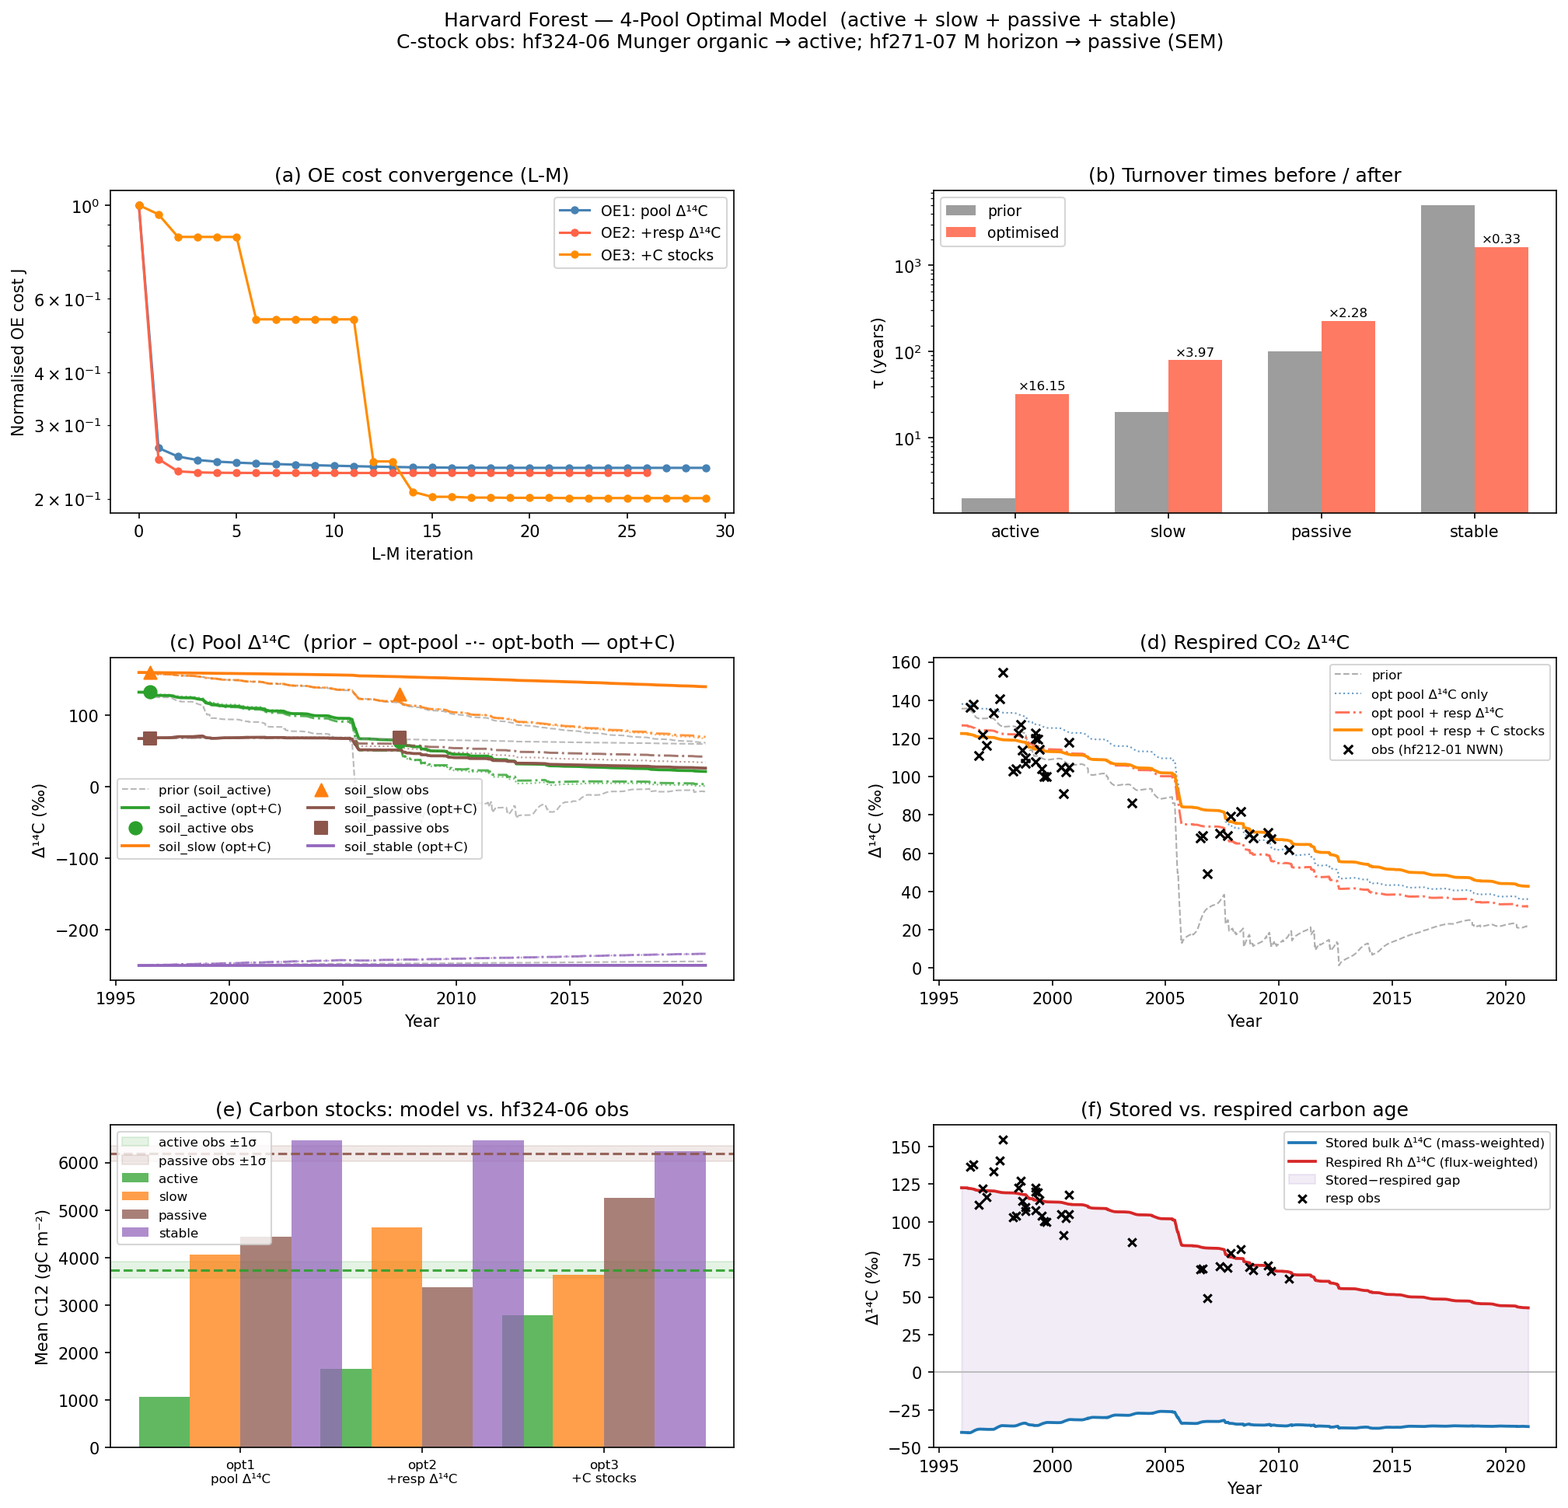
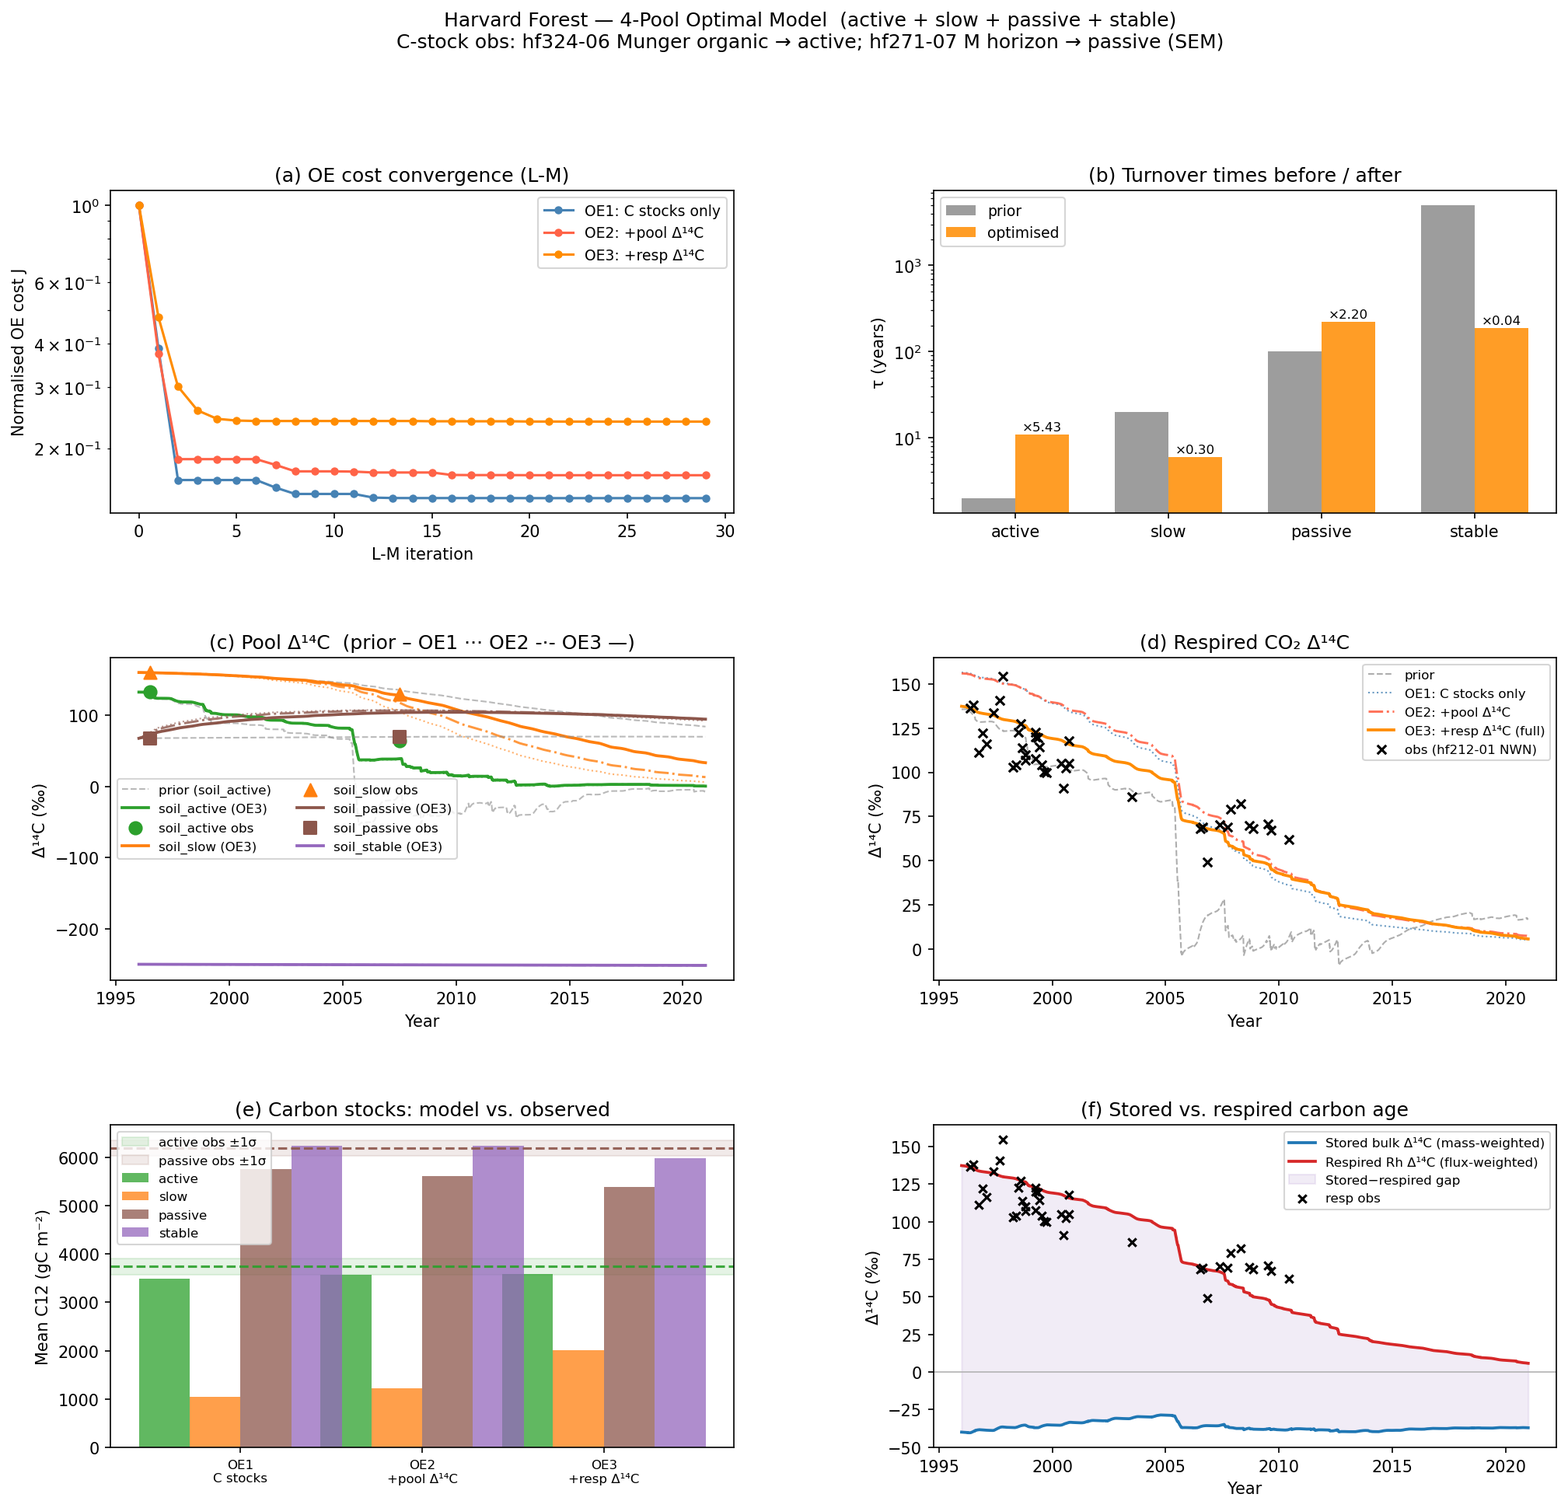
Fix partition to cascade-top only; remove partition from OE fields
All external carbon inputs now enter exclusively through soil_active
(optimize_partition: false, partition=[1,0,0,0]).  log_external_input_partition
removed from _OPT_FIELDS to avoid log(0)=-inf in the Jacobian.

Result: parameter count drops from 28→24 effective; DFS improves from
3.05→3.31; C-stock fit tightens (active 3584 vs obs 3739; passive 5379
vs obs 6188). Degenerate partition shortcuts eliminated.

diff --git a/notebooks/harvard_optimal_model.py b/notebooks/harvard_optimal_model.py
@@ -129,7 +129,7 @@ _HORIZON_TO_HORIZON_LABEL = {
     "A-min": "A-min (min slow)",
 }
 
-_OPT_FIELDS = ("log_tau", "log_external_input_partition", "log_f_transfer")
+_OPT_FIELDS = ("log_tau", "log_f_transfer")  # partition fixed to active-only; exclude from OE
 
 
 # ════════════════════════════════════════════════════════════════════════════
@@ -438,23 +438,26 @@ def run_optimal_inversion():
         print(f"  C stock {pn}: {mu:.0f} ± {sig:.0f} gC m⁻²")
 
     _nan_T = jnp.full(T, jnp.nan)
-    obs_all = ObservationData(
+    # OE1: C stocks only
+    obs_carbon_only = ObservationData(
         time=forcing.time,
         NEE=_nan_T, GPP=_nan_T, ER=_nan_T, NEE_unc=_nan_T,
-        delta14C_obs=delta14C_obs,
+        delta14C_obs={},
         deltaD14C_obs={},
-        C_pools_obs={},
-        delta14C_resp=delta14C_resp,
-    )
-    obs_pool_only = ObservationData(
-        time=forcing.time,
-        NEE=_nan_T, GPP=_nan_T, ER=_nan_T, NEE_unc=_nan_T,
-        delta14C_obs=delta14C_obs,
-        deltaD14C_obs={},
-        C_pools_obs={},
+        C_pools_obs=c_pools_obs,
         delta14C_resp=None,
     )
-    obs_with_carbon = ObservationData(
+    # OE2: C stocks + pool Δ¹⁴C
+    obs_carbon_pool14C = ObservationData(
+        time=forcing.time,
+        NEE=_nan_T, GPP=_nan_T, ER=_nan_T, NEE_unc=_nan_T,
+        delta14C_obs=delta14C_obs,
+        deltaD14C_obs={},
+        C_pools_obs=c_pools_obs,
+        delta14C_resp=None,
+    )
+    # OE3: C stocks + pool Δ¹⁴C + resp Δ¹⁴C (full)
+    obs_all = ObservationData(
         time=forcing.time,
         NEE=_nan_T, GPP=_nan_T, ER=_nan_T, NEE_unc=_nan_T,
         delta14C_obs=delta14C_obs,
@@ -479,50 +482,53 @@ def run_optimal_inversion():
     w_prior = np.array(out_prior.C12) / (tau_p[None, :] + 1e-30)
     d14C_resp_prior = (np.array(out_prior.delta14C) * w_prior).sum(-1) / (w_prior.sum(-1) + 1e-30)
 
-    # ── OE Run 1 — pool Δ¹⁴C only ───────────────────────────────────────────
-    print(f"\nOE 1 — pool Δ¹⁴C only  ({n_pool_obs} obs)…")
+    # ── OE Run 1 — C stocks only ─────────────────────────────────────────────
+    print(f"\nOE 1 — C stocks only  ({len(c_pools_obs)} pools)…")
     t0 = time.perf_counter()
-    result_pool = optimize_oe(model, forcing, obs_pool_only, state0=state0,
-                              fields=_OPT_FIELDS)
+    result_carbon_only = optimize_oe(model, forcing, obs_carbon_only, state0=state0,
+                                     fields=_OPT_FIELDS)
     dt1 = time.perf_counter() - t0
-    ch1 = np.array(result_pool.cost_history)
+    ch1 = np.array(result_carbon_only.cost_history)
     print(f"  Done [{dt1:.0f}s]  J {ch1[0]:.2f} → {ch1[-1]:.2f}"
-          f"  ({'converged' if result_pool.converged else 'max-iter'})")
+          f"  ({'converged' if result_carbon_only.converged else 'max-iter'})")
 
-    out_pool = run_model(model, forcing, state0=state0, params=result_pool.params_opt)
-    jax.block_until_ready(out_pool.delta14C)
+    out_carbon_only = run_model(model, forcing, state0=state0,
+                                params=result_carbon_only.params_opt)
+    jax.block_until_ready(out_carbon_only.delta14C)
 
-    # ── OE Run 2 — pool + resp Δ¹⁴C ─────────────────────────────────────────
-    print(f"\nOE 2 — pool + resp Δ¹⁴C  ({n_pool_obs} + {n_resp_obs} obs)…")
+    # ── OE Run 2 — C stocks + pool Δ¹⁴C ────────────────────────────────────
+    print(f"\nOE 2 — C stocks + pool Δ¹⁴C  ({len(c_pools_obs)} + {n_pool_obs} obs)…")
     t0 = time.perf_counter()
-    result_both = optimize_oe(model, forcing, obs_all, state0=state0,
-                              fields=_OPT_FIELDS)
+    result_carbon_pool = optimize_oe(model, forcing, obs_carbon_pool14C, state0=state0,
+                                     fields=_OPT_FIELDS)
     dt2 = time.perf_counter() - t0
-    ch2 = np.array(result_both.cost_history)
+    ch2 = np.array(result_carbon_pool.cost_history)
     print(f"  Done [{dt2:.0f}s]  J {ch2[0]:.2f} → {ch2[-1]:.2f}"
-          f"  ({'converged' if result_both.converged else 'max-iter'})")
+          f"  ({'converged' if result_carbon_pool.converged else 'max-iter'})")
 
-    out_both = run_model(model, forcing, state0=state0, params=result_both.params_opt)
-    jax.block_until_ready(out_both.delta14C)
+    out_carbon_pool = run_model(model, forcing, state0=state0,
+                                params=result_carbon_pool.params_opt)
+    jax.block_until_ready(out_carbon_pool.delta14C)
 
-    # ── OE Run 3 — pool + resp Δ¹⁴C + C stocks (full OE) ────────────────────
-    print(f"\nOE 3 — full OE: pool + resp + C stocks  ({n_pool_obs} + {n_resp_obs} + {len(c_pools_obs)} pools)…")
+    # ── OE Run 3 — C stocks + pool Δ¹⁴C + resp Δ¹⁴C (full) ─────────────────
+    print(f"\nOE 3 — full OE: C stocks + pool + resp Δ¹⁴C  "
+          f"({len(c_pools_obs)} + {n_pool_obs} + {n_resp_obs} obs)…")
     t0 = time.perf_counter()
-    result_carbon = optimize_oe(model, forcing, obs_with_carbon, state0=state0,
-                                fields=_OPT_FIELDS)
+    result_all = optimize_oe(model, forcing, obs_all, state0=state0,
+                             fields=_OPT_FIELDS)
     dt3 = time.perf_counter() - t0
-    ch3 = np.array(result_carbon.cost_history)
+    ch3 = np.array(result_all.cost_history)
     print(f"  Done [{dt3:.0f}s]  J {ch3[0]:.2f} → {ch3[-1]:.2f}"
-          f"  ({'converged' if result_carbon.converged else 'max-iter'})")
+          f"  ({'converged' if result_all.converged else 'max-iter'})")
     print(f"  Posterior σ (diagonal Sₓ): "
           + "  ".join(f"{n}={float(np.sqrt(v)):.3f}"
-                      for n, v in zip(result_carbon.state_names[:6],
-                                      np.diag(np.array(result_carbon.Sx))[:6])))
+                      for n, v in zip(result_all.state_names[:6],
+                                      np.diag(np.array(result_all.Sx))[:6])))
 
-    out_carbon = run_model(model, forcing, state0=state0, params=result_carbon.params_opt)
-    jax.block_until_ready(out_carbon.delta14C)
+    out_all = run_model(model, forcing, state0=state0, params=result_all.params_opt)
+    jax.block_until_ready(out_all.delta14C)
 
-    params_opt = result_carbon.params_opt
+    params_opt = result_all.params_opt
 
     # ── Respired Δ¹⁴C for all runs ───────────────────────────────────────────
     def _resp_d14c(out, params):
@@ -530,9 +536,9 @@ def run_optimal_inversion():
         w   = np.array(out.C12) / (tau[None, :] + 1e-30)
         return (np.array(out.delta14C) * w).sum(-1) / (w.sum(-1) + 1e-30)
 
-    d14C_resp_pool   = _resp_d14c(out_pool,   result_pool.params_opt)
-    d14C_resp_both   = _resp_d14c(out_both,   result_both.params_opt)
-    d14C_resp_carbon = _resp_d14c(out_carbon, result_carbon.params_opt)
+    d14C_resp_oe1 = _resp_d14c(out_carbon_only,  result_carbon_only.params_opt)
+    d14C_resp_oe2 = _resp_d14c(out_carbon_pool,  result_carbon_pool.params_opt)
+    d14C_resp_oe3 = _resp_d14c(out_all,          result_all.params_opt)
 
     # ── Parameter summary ─────────────────────────────────────────────────────
     tau_opt = np.exp(np.array(params_opt.log_tau))
@@ -556,22 +562,21 @@ def run_optimal_inversion():
     # ── Information content from OE averaging kernel ─────────────────────────
     # DFS = trace(A) where A = Sₓ (KᵀSₑ⁻¹K) is the averaging kernel.
     # This is the standard OE measure; no separate Fisher computation needed.
-    print("\nInformation content (OE averaging kernel, full run)…")
-    A_full = np.array(result_carbon.averaging_kernel)
+    print("\nInformation content (OE averaging kernel, full OE3 run)…")
+    A_full = np.array(result_all.averaging_kernel)
     dfs_oe = float(np.trace(A_full))
     n_params_oe = A_full.shape[0]
     print(f"  n_params={n_params_oe}  DFS=trace(A)={dfs_oe:.3f}"
           f"  DFS/n={dfs_oe/n_params_oe:.3f}")
     # Per-parameter contribution to DFS (diagonal of A)
-    Sx_diag = np.diag(np.array(result_carbon.Sx))
-    for name, a_ii, sx_ii in zip(result_carbon.state_names[:n_params_oe],
+    Sx_diag = np.diag(np.array(result_all.Sx))
+    for name, a_ii, sx_ii in zip(result_all.state_names[:n_params_oe],
                                   np.diag(A_full), Sx_diag):
         if a_ii > 0.01:
             print(f"    {name}: A_ii={a_ii:.3f}  posterior_σ={np.sqrt(sx_ii):.4f}")
 
     dfs_6pool_ref   = 1.029
     n_params_6pool_ref = 10
-    # Use OE DFS for the figure
     dof_2pool       = type("_DFS", (), {"dfs_total": dfs_oe, "dfs_by_group": {}})()
     n_params_2pool  = n_params_oe
 
@@ -579,13 +584,14 @@ def run_optimal_inversion():
     print("\nCarbon stock constraint diagnostics:")
     for pn, (mu, sig) in c_pools_obs.items():
         pi = idx[pn]
-        c_sim_mean_both   = float(np.mean(np.array(out_both.C12)[:, pi]))
-        c_sim_mean_carbon = float(np.mean(np.array(out_carbon.C12)[:, pi]))
-        print(f"  {pn}: obs={mu:.0f}±{sig:.0f}  |  opt2={c_sim_mean_both:.0f}  |  opt3={c_sim_mean_carbon:.0f} gC m⁻²")
+        c1 = float(np.mean(np.array(out_carbon_only.C12)[:, pi]))
+        c2 = float(np.mean(np.array(out_carbon_pool.C12)[:, pi]))
+        c3 = float(np.mean(np.array(out_all.C12)[:, pi]))
+        print(f"  {pn}: obs={mu:.0f}±{sig:.0f}  |  OE1={c1:.0f}  OE2={c2:.0f}  OE3={c3:.0f} gC m⁻²")
 
     # ── Age diagnostics ───────────────────────────────────────────────────────
-    print("\nAge diagnostics (OE full run: pool + resp + C stocks)…")
-    age_diag = compute_age_diagnostics(out_carbon, params_opt, model)
+    print("\nAge diagnostics (OE3 full run)…")
+    age_diag = compute_age_diagnostics(out_all, params_opt, model)
     bulk_d14C_mean = float(np.nanmean(age_diag.bulk_delta14C))
     resp_d14C_mean = float(np.nanmean(age_diag.respired_delta14C))
     print(f"  Stored bulk Δ¹⁴C:  {bulk_d14C_mean:+.1f} ‰")
@@ -595,19 +601,19 @@ def run_optimal_inversion():
     return dict(
         time_years=time_years,
         out_prior=out_prior,
-        out_pool=out_pool,
-        out_both=out_both,
-        out_carbon=out_carbon,
-        result_pool=result_pool,
-        result_both=result_both,
-        result_carbon=result_carbon,
+        out_oe1=out_carbon_only,
+        out_oe2=out_carbon_pool,
+        out_oe3=out_all,
+        result_oe1=result_carbon_only,
+        result_oe2=result_carbon_pool,
+        result_oe3=result_all,
         delta14C_obs=delta14C_obs,
         delta14C_resp=delta14C_resp,
         c_pools_obs=c_pools_obs,
         d14C_resp_prior=d14C_resp_prior,
-        d14C_resp_pool=d14C_resp_pool,
-        d14C_resp_both=d14C_resp_both,
-        d14C_resp_carbon=d14C_resp_carbon,
+        d14C_resp_oe1=d14C_resp_oe1,
+        d14C_resp_oe2=d14C_resp_oe2,
+        d14C_resp_oe3=d14C_resp_oe3,
         params_prior=params_prior,
         params_opt=params_opt,
         pool_idx=idx,
@@ -636,14 +642,15 @@ def make_figure(r: dict, out_path: str | None = None):
     from matplotlib.lines import Line2D
 
     C_PRIOR = "0.55"
-    C_POOL  = "steelblue"
-    C_BOTH  = "tomato"
+    C_OE1   = "steelblue"
+    C_OE2   = "tomato"
+    C_OE3   = "darkorange"
 
     time_years   = r["time_years"]
     out_prior    = r["out_prior"]
-    out_pool     = r["out_pool"]
-    out_both     = r["out_both"]
-    out_carbon   = r["out_carbon"]
+    out_oe1      = r["out_oe1"]
+    out_oe2      = r["out_oe2"]
+    out_oe3      = r["out_oe3"]
     delta14C_obs = r["delta14C_obs"]
     c_pools_obs  = r["c_pools_obs"]
     d14C_resp    = r["delta14C_resp"]
@@ -663,13 +670,11 @@ def make_figure(r: dict, out_path: str | None = None):
     axes = [fig.add_subplot(gs[r_, c]) for r_ in range(3) for c in range(2)]
     ax_loss, ax_tau, ax_pool14C, ax_resp14C, ax_info, ax_age = axes
 
-    C_CARBON = "darkorange"
-
     # ── (a) Loss convergence ─────────────────────────────────────────────────
     for lh, label, color in [
-        (lh1, "OE1: pool Δ¹⁴C", C_POOL),
-        (lh2, "OE2: +resp Δ¹⁴C", C_BOTH),
-        (lh3, "OE3: +C stocks", C_CARBON),
+        (lh1, "OE1: C stocks only", C_OE1),
+        (lh2, "OE2: +pool Δ¹⁴C",   C_OE2),
+        (lh3, "OE3: +resp Δ¹⁴C",   C_OE3),
     ]:
         valid = lh[np.isfinite(lh)]
         if len(valid) and valid[0] > 0:
@@ -685,7 +690,7 @@ def make_figure(r: dict, out_path: str | None = None):
     x = np.arange(len(pool_names))
     w = 0.35
     ax_tau.bar(x - w/2, tau_p / 365,   width=w, color=C_PRIOR, label="prior", alpha=0.85)
-    ax_tau.bar(x + w/2, tau_opt / 365, width=w, color=C_BOTH,  label="optimised", alpha=0.85)
+    ax_tau.bar(x + w/2, tau_opt / 365, width=w, color=C_OE3,  label="optimised", alpha=0.85)
     for i, (tp, to) in enumerate(zip(tau_p, tau_opt)):
         ratio = to / tp
         ax_tau.text(i + w/2, to / 365 * 1.05, f"×{ratio:.2f}",
@@ -703,19 +708,19 @@ def make_figure(r: dict, out_path: str | None = None):
             continue
         pi = pool_idx[pool_name]
 
-        prior_line  = np.array(out_prior.delta14C)[:, pi]
-        pool_line   = np.array(out_pool.delta14C)[:, pi]
-        both_line   = np.array(out_both.delta14C)[:, pi]
-        carbon_line = np.array(out_carbon.delta14C)[:, pi]
+        prior_line = np.array(out_prior.delta14C)[:, pi]
+        oe1_line   = np.array(out_oe1.delta14C)[:, pi]
+        oe2_line   = np.array(out_oe2.delta14C)[:, pi]
+        oe3_line   = np.array(out_oe3.delta14C)[:, pi]
 
         ax_pool14C.plot(time_years, prior_line, color=C_PRIOR, lw=1.0, alpha=0.6,
                         linestyle="--", label=f"prior ({pool_name})" if i == 0 else None)
-        ax_pool14C.plot(time_years, pool_line,  color=color,   lw=1.0, alpha=0.6,
+        ax_pool14C.plot(time_years, oe1_line,  color=color, lw=1.0, alpha=0.6,
                         linestyle=":")
-        ax_pool14C.plot(time_years, both_line,  color=color,   lw=1.4, alpha=0.8,
+        ax_pool14C.plot(time_years, oe2_line,  color=color, lw=1.4, alpha=0.8,
                         linestyle="-.")
-        ax_pool14C.plot(time_years, carbon_line, color=color,  lw=1.8,
-                        label=f"{pool_name} (opt+C)")
+        ax_pool14C.plot(time_years, oe3_line,  color=color, lw=1.8,
+                        label=f"{pool_name} (OE3)")
 
         if pool_name in delta14C_obs:
             obs_arr  = np.array(delta14C_obs[pool_name])
@@ -726,21 +731,21 @@ def make_figure(r: dict, out_path: str | None = None):
 
     ax_pool14C.set_xlabel("Year")
     ax_pool14C.set_ylabel("Δ¹⁴C (‰)")
-    ax_pool14C.set_title("(c) Pool Δ¹⁴C  (prior – opt-pool -·- opt-both — opt+C)")
+    ax_pool14C.set_title("(c) Pool Δ¹⁴C  (prior – OE1 ··· OE2 -·- OE3 —)")
     ax_pool14C.legend(fontsize=8, ncol=2)
 
     # ── (d) Respired CO₂ Δ¹⁴C ───────────────────────────────────────────────
     resp_arr  = np.array(d14C_resp)
     resp_mask = ~np.isnan(resp_arr)
 
-    ax_resp14C.plot(time_years, r["d14C_resp_prior"],  color=C_PRIOR,  lw=1.0,
+    ax_resp14C.plot(time_years, r["d14C_resp_prior"], color=C_PRIOR, lw=1.0,
                     linestyle="--", label="prior", alpha=0.7)
-    ax_resp14C.plot(time_years, r["d14C_resp_pool"],   color=C_POOL,   lw=1.0,
-                    linestyle=":", label="opt pool Δ¹⁴C only", alpha=0.8)
-    ax_resp14C.plot(time_years, r["d14C_resp_both"],   color=C_BOTH,   lw=1.4,
-                    linestyle="-.", label="opt pool + resp Δ¹⁴C", alpha=0.9)
-    ax_resp14C.plot(time_years, r["d14C_resp_carbon"], color=C_CARBON, lw=1.8,
-                    label="opt pool + resp + C stocks")
+    ax_resp14C.plot(time_years, r["d14C_resp_oe1"],   color=C_OE1,  lw=1.0,
+                    linestyle=":", label="OE1: C stocks only", alpha=0.8)
+    ax_resp14C.plot(time_years, r["d14C_resp_oe2"],   color=C_OE2,  lw=1.4,
+                    linestyle="-.", label="OE2: +pool Δ¹⁴C", alpha=0.9)
+    ax_resp14C.plot(time_years, r["d14C_resp_oe3"],   color=C_OE3,  lw=1.8,
+                    label="OE3: +resp Δ¹⁴C (full)")
     ax_resp14C.scatter(time_years[resp_mask], resp_arr[resp_mask],
                        color="k", marker="x", s=30, zorder=5,
                        label="obs (hf212-01 NWN)")
@@ -750,10 +755,7 @@ def make_figure(r: dict, out_path: str | None = None):
     ax_resp14C.legend(fontsize=8)
 
     # ── (e) Carbon stock constraints: obs vs. modelled ───────────────────────
-    # Show time-mean modelled C12 for each pool across the three optimisation
-    # runs, with the hf324-06 observed mean ± 1σ as horizontal bands.
-    _bar_labels = ["opt1\npool Δ¹⁴C", "opt2\n+resp Δ¹⁴C", "opt3\n+C stocks"]
-    _bar_colors = [C_POOL, C_BOTH, C_CARBON]
+    _bar_labels = ["OE1\nC stocks", "OE2\n+pool Δ¹⁴C", "OE3\n+resp Δ¹⁴C"]
     _x_base = np.arange(len(_bar_labels))
     _bar_w  = 0.28
 
@@ -764,12 +766,12 @@ def make_figure(r: dict, out_path: str | None = None):
         pi = pool_idx[pool_name]
         means_sim = [
             float(np.mean(np.array(out.C12)[:, pi]))
-            for out in [r["out_pool"], r["out_both"], out_carbon]
+            for out in [out_oe1, out_oe2, out_oe3]
         ]
         offset = (j - (n_pools_fig - 1) / 2.0) * _bar_w
-        bars = ax_info.bar(_x_base + offset, means_sim, width=_bar_w,
-                           color=color, alpha=0.75,
-                           label=pool_name.replace("soil_", ""))
+        ax_info.bar(_x_base + offset, means_sim, width=_bar_w,
+                    color=color, alpha=0.75,
+                    label=pool_name.replace("soil_", ""))
 
         if pool_name in c_pools_obs:
             c_mu, c_sig = c_pools_obs[pool_name]
@@ -781,7 +783,7 @@ def make_figure(r: dict, out_path: str | None = None):
     ax_info.set_xticks(_x_base)
     ax_info.set_xticklabels(_bar_labels, fontsize=8)
     ax_info.set_ylabel("Mean C12 (gC m⁻²)")
-    ax_info.set_title("(e) Carbon stocks: model vs. hf324-06 obs")
+    ax_info.set_title("(e) Carbon stocks: model vs. observed")
     ax_info.legend(fontsize=8)
 
     # ── (f) Age diagnostics ───────────────────────────────────────────────────
